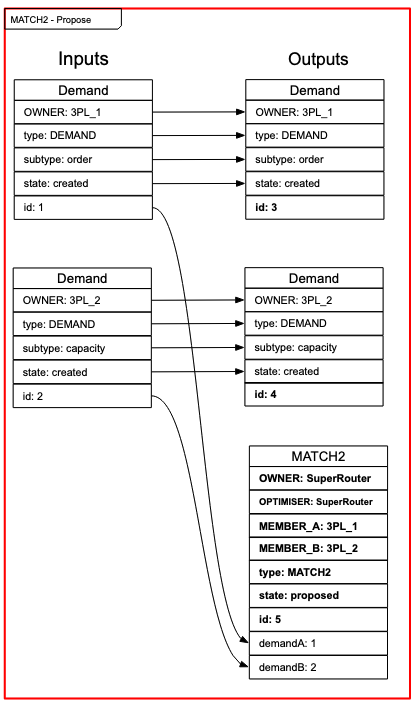
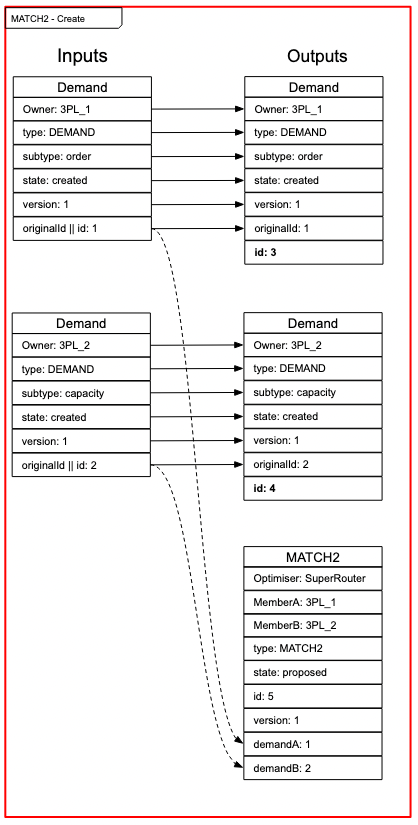
latest token model

Changed region(s): [[0.0, 0.0, 1.0, 0.9972]]

diff --git a/docs/l3/tokens.md b/docs/l3/tokens.md
@@ -8,11 +8,11 @@
 
 ## Roles
 
-![#38761d](https://placehold.co/15x15/38761d/38761d.png) <b>MEMBER_A</b>
+![#38761d](https://placehold.co/15x15/38761d/38761d.png) <b>MemberA</b>
 
-![#0000ff](https://placehold.co/15x15/0000ff/0000ff.png) <b>MEMBER_B</b>
+![#0000ff](https://placehold.co/15x15/0000ff/0000ff.png) <b>MemberB</b>
 
-![#ff0000](https://placehold.co/15x15/ff0000/ff0000.png) <b>OPTIMISER</b>
+![#ff0000](https://placehold.co/15x15/ff0000/ff0000.png) <b>Optimiser</b>
 
 ## Token types
 
@@ -24,14 +24,14 @@ Represents the proposal and allocation of one member's order to a different memb
 
 ## States
 
-| Token    | State            | Represents                                                                                                                                                                                                                                                                                                                                                                                         |
-| -------- | ---------------- | -------------------------------------------------------------------------------------------------------------------------------------------------------------------------------------------------------------------------------------------------------------------------------------------------------------------------------------------------------------------------------------------------- |
-| `DEMAND` | `created`        | An order/capacity that a member has made available to be matched. If the demand is no longer required, the token can be burned.                                                                                                                                                                                                                                                                    |
-|          | `allocated`      | An order/capacity that's allocated to a corresponding capacity/order in a `MATCH`. Allocation can't be cancelled, the token can no longer be burned.                                                                                                                                                                                                                                               |
-| `MATCH2` | `proposed`       | A proposed pairing of an order (`DemandA`) and a capacity (`DemandB`). `DemandA` could be an order `DEMAND` and `DemandB` a capacity, as long as there's one of each, not two orders or two capacities. The first accept of a `proposed` `MATCH2` can be made by either member. `DemandA` and `DemandB` must come from different members. Only references the demands, doesn't change their state. |
-|          | `accepted_a`     | A proposed `MATCH2` that has been accepted by the owner of `DemandA`. Still only references the demands, doesn't change their state.                                                                                                                                                                                                                                                               |
-|          | `accepted_b`     | A proposed `MATCH2` that has been accepted by the owner of `DemandB`. Still only references the demands, doesn't change their state.                                                                                                                                                                                                                                                               |
-|          | `accepted_final` | A proposed `MATCH2` that has been accepted by both members. At this point the demands change state to `allocated`.                                                                                                                                                                                                                                                                                 |
+| Token    | State           | Represents                                                                                                                                                                                                                                                                                                                                                                                         |
+| -------- | --------------- | -------------------------------------------------------------------------------------------------------------------------------------------------------------------------------------------------------------------------------------------------------------------------------------------------------------------------------------------------------------------------------------------------- |
+| `DEMAND` | `created`       | An order/capacity that a member has made available to be matched. If the demand is no longer required, the token can be burned.                                                                                                                                                                                                                                                                    |
+|          | `allocated`     | An order/capacity that's allocated to a corresponding capacity/order in a `MATCH`. Allocation can't be cancelled, the token can no longer be burned.                                                                                                                                                                                                                                               |
+| `MATCH2` | `proposed`      | A proposed pairing of an order (`DemandA`) and a capacity (`DemandB`). `DemandA` could be an order `DEMAND` and `DemandB` a capacity, as long as there's one of each, not two orders or two capacities. The first accept of a `proposed` `MATCH2` can be made by either member. `DemandA` and `DemandB` must come from different members. Only references the demands, doesn't change their state. |
+|          | `acceptedA`     | A proposed `MATCH2` that has been accepted by the owner of `DemandA`. Still only references the demands, doesn't change their state.                                                                                                                                                                                                                                                               |
+|          | `acceptedB`     | A proposed `MATCH2` that has been accepted by the owner of `DemandB`. Still only references the demands, doesn't change their state.                                                                                                                                                                                                                                                               |
+|          | `acceptedFinal` | A proposed `MATCH2` that has been accepted by both members. At this point the demands change state to `allocated`.                                                                                                                                                                                                                                                                                 |
 
 ## Transactions
 
@@ -42,18 +42,18 @@ Created by a member.
 
 ### Match2
 
-An optimiser proposes the matching of a single order from some `MEMBER_A` to a single capacity of a different `MEMBER_B`.
+An `Optimiser` proposes the matching of a single order from some `MemberA` to a single capacity of a different `MemberB`.
 
 ![match2 create](../../assets/l3/match2-create.png)
 
-Accept flow if `MEMBER_A` accepts first, then `MEMBER_B`.
+Accept flow if `MemberA` accepts first, then `MemberB`.
 
-![match2 ab](../../assets/l3/match-ab.png)
+![match2 ab](../../assets/l3/match2-ab.png)
 
-Accept flow if `MEMBER_B` accepts first, then `MEMBER_A`.
+Accept flow if `MemberB` accepts first, then `MemberA`.
 
-![match2 ba](../../assets/l3/match-ba.png)
+![match2 ba](../../assets/l3/match2-ba.png)
 
 A match can be rejected by any party before it is fully accepted.
 
-![match2 reject](../../assets/l3/match-reject.png)
+![match2 reject](../../assets/l3/match2-reject.png)
